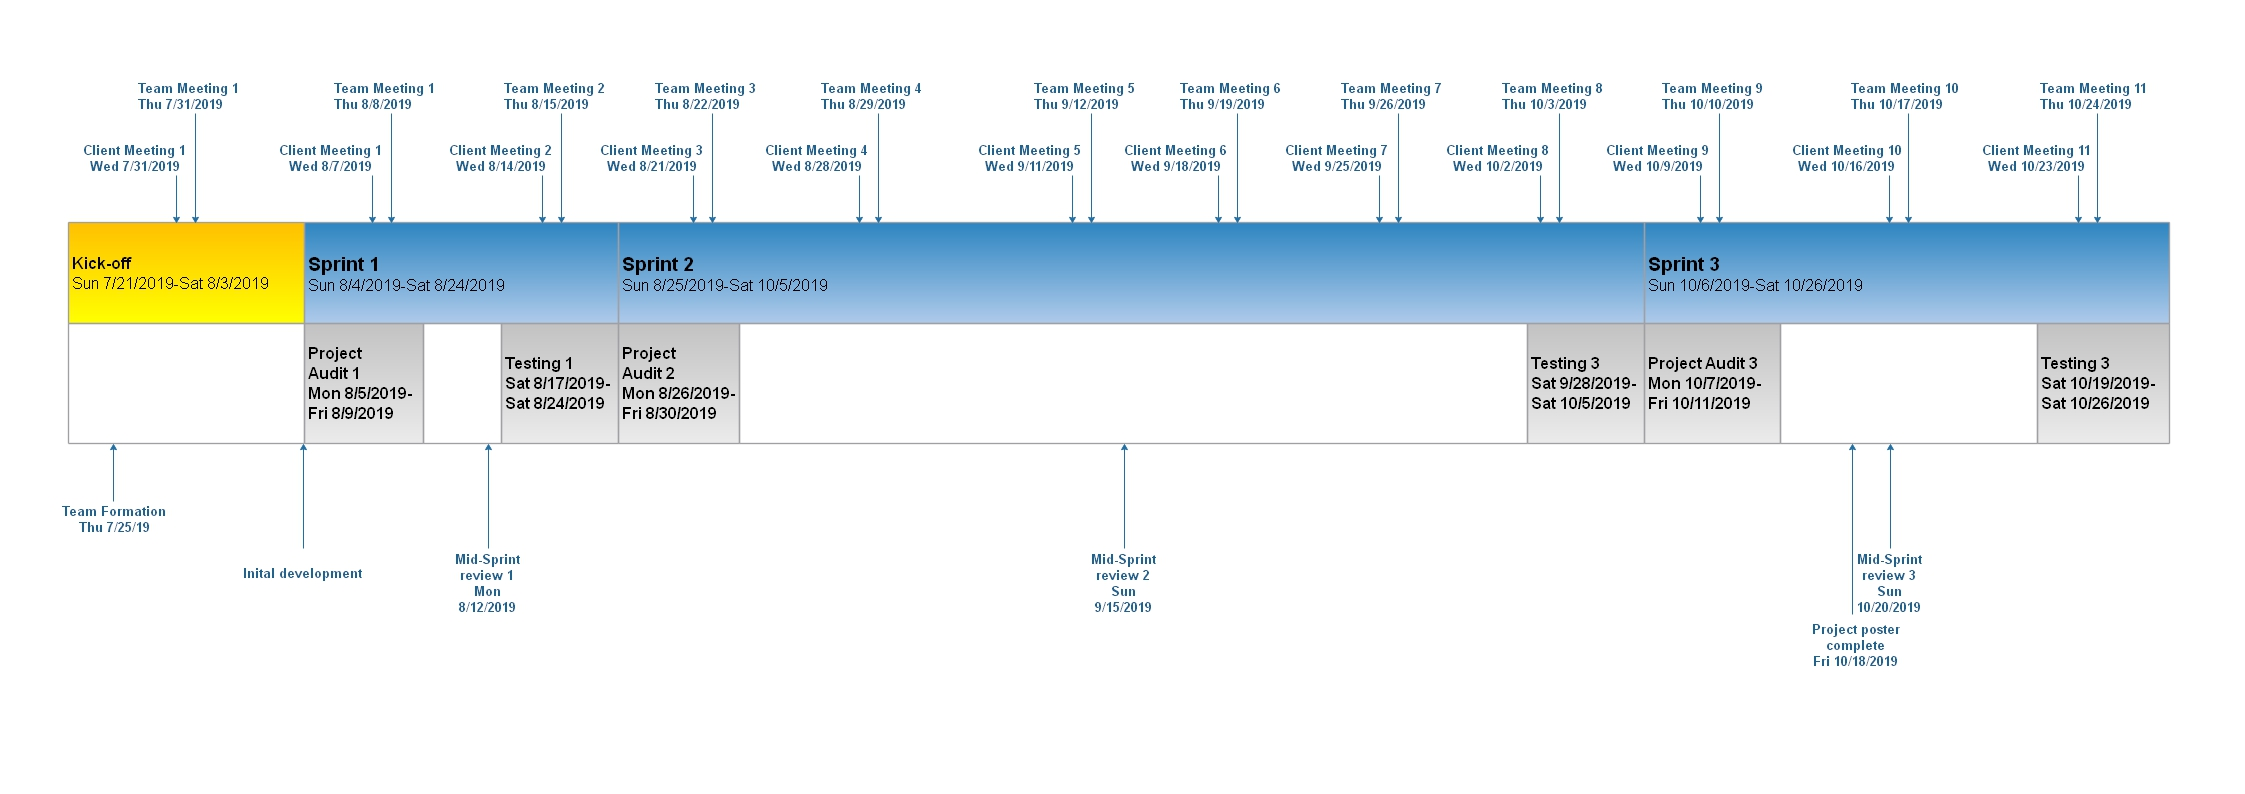
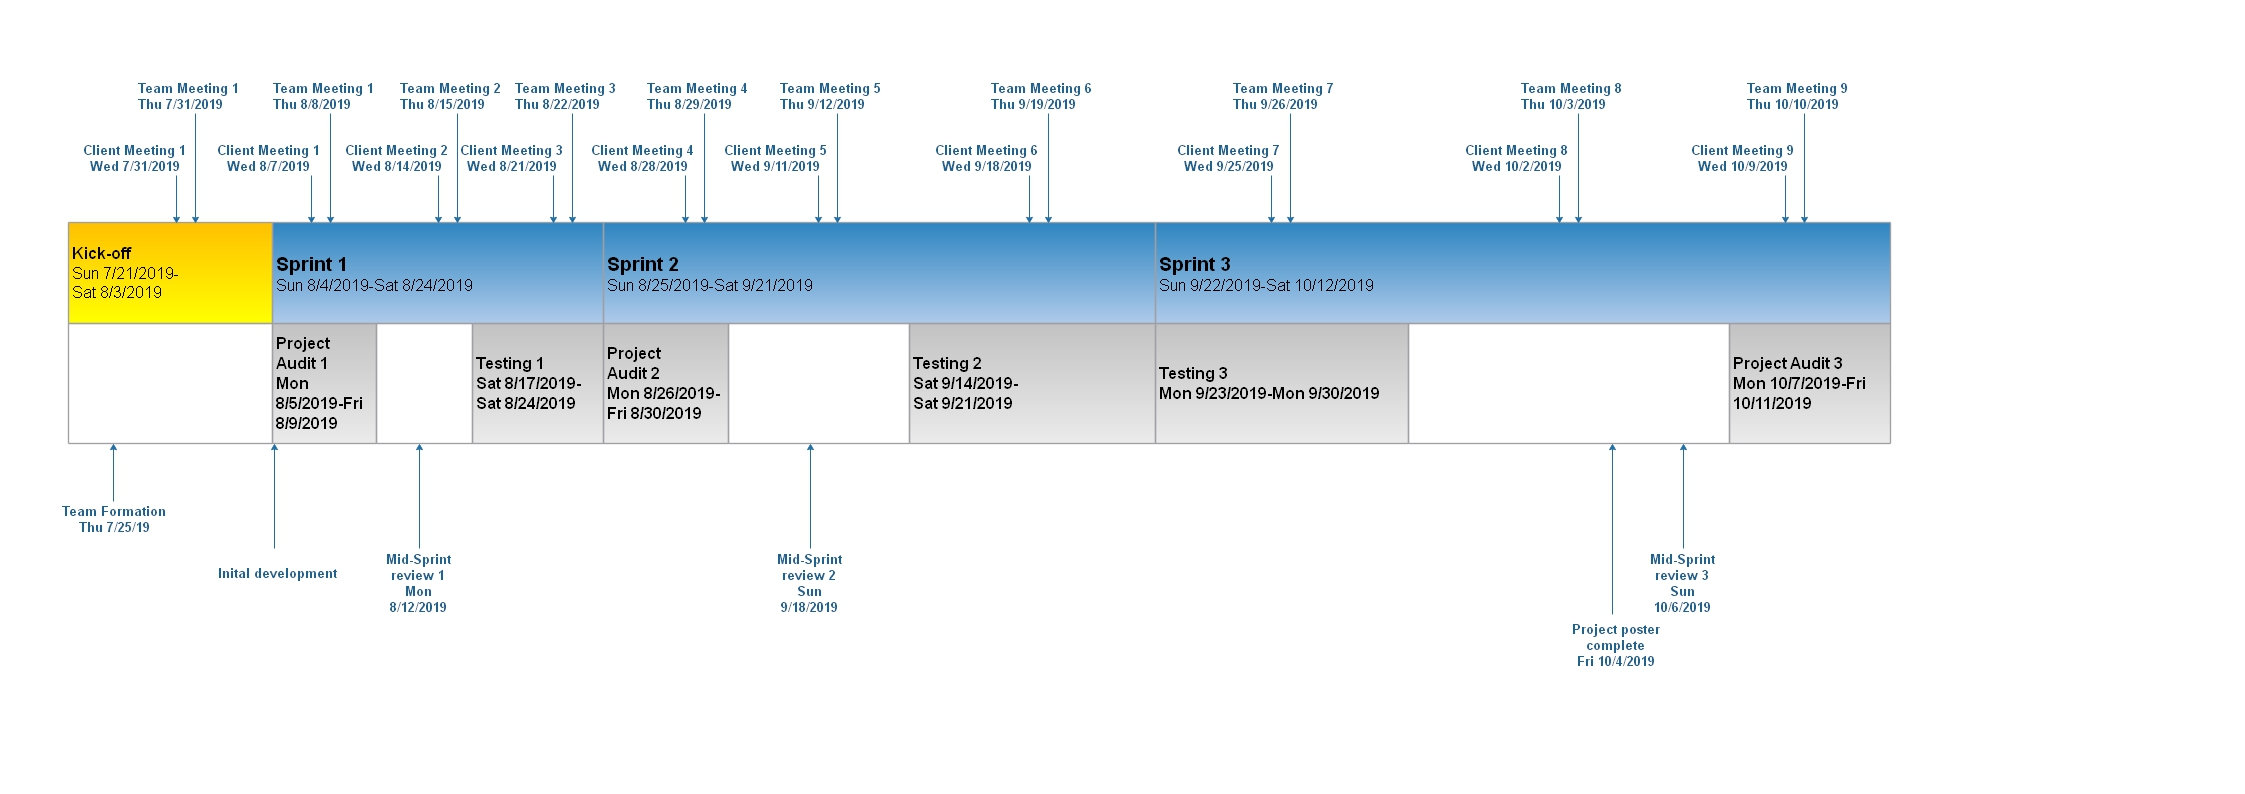
update readme

diff --git a/README.md b/README.md
@@ -34,9 +34,23 @@
 ## Tools and Services
 
 ## Milestones
+The plan for this semester includes five main work objectives. They are, in a rough order of priority, as follows:
+1. **Graphical User Interface**:The graphical user interface is a form of user interface. Good Gui can bring a better user experience. Our job is to improve the existing user interface and add some features.
+2. **CRUD**:Create, read, update, and delete (CRUD) are the four basic functions for this website. The website will read the data from the database and provide the information the user needs.These functions are the basis of access control system.
+3. **Access control**: Access control allow anu staffs to login into the website and change course information. Website administrators can also modify the database by using this system.
+4. **Copy and paste functions**: Copy and paste functions are advanced functions for the website. Students can copy existing timetable from other students or template. These function can help students complete their study plan faster.
+5. **Bug fixing**: There are some bugs in the website. For example,  in some situations, the website will generate incomplete timetable. Our job is to fix these bugs.
 
-## Project Schedule
+## [Semester 2 Project Schedule]
 
+![Project Schedule](Documentation/Audit 1/Images/Schedule.jpg)
+* **Kick-Off**: Weeks 1 - 2. Team member recruitment, onboarding, project definition and setup. 
+* **Sprint 1**: Weeks 3 - 5. Project Audit 1,graphical user interface,bug fixing. 
+* **Sprint 2**: Weeks 6 - 7. Project Audit 2, CRUD functions,copy function and bug fixing. 
+* **Sprint 3**: Weeks 8 - 10. Project Audit 3,paste function,access control and bug fixing.
+
+![Gantt](Documentation/Audit 1/Images/gantt.PNG)
+  
 ## Process Changes
 
 ## Client's Vision
